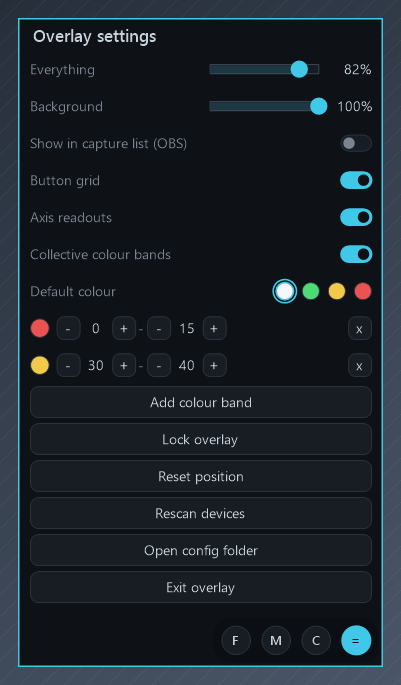
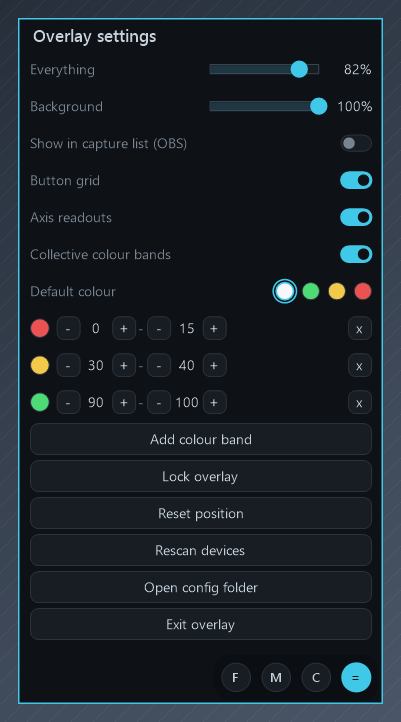
Added green to the default colours for better UX

diff --git a/src/JoystickInputOverlay/OverlayConfig.cs b/src/JoystickInputOverlay/OverlayConfig.cs
@@ -145,11 +145,17 @@ internal sealed class OverlayConfig
     public bool CollectiveBandsEnabled { get; set; }
 
     /// <summary>
-    /// Percentage ranges that override the colour, e.g. 0-15 Red. Inclusive at both ends;
-    /// the first band containing the value wins. Anything uncovered uses
-    /// <see cref="CollectiveText"/>.
+    /// Percentage ranges that override the colour. Inclusive at both ends; the first band
+    /// containing the value wins. Anything uncovered uses <see cref="CollectiveText"/>.
+    /// Ships with a low, a caution and a high band; they only take effect once
+    /// <see cref="CollectiveBandsEnabled"/> is on.
     /// </summary>
-    public List<ColourBand> CollectiveBands { get; set; } = new();
+    public List<ColourBand> CollectiveBands { get; set; } = new()
+    {
+        new ColourBand { Min = 0,  Max = 15,  Colour = "Red" },
+        new ColourBand { Min = 30, Max = 40,  Colour = "Yellow" },
+        new ColourBand { Min = 90, Max = 100, Colour = "Green" }
+    };
 
     /// <summary>
     /// The view, resolved from <see cref="Mode"/> and falling back to the legacy

diff --git a/README.md b/README.md
@@ -351,7 +351,7 @@ Work through the grip and base, note the numbers, then label them in the config 
 | `collectiveShowPercent` | `true` draws the % symbol, `false` leaves the bare number. The corner button toggles it. |
 | `collectiveText` | Colour when no band matches, and whenever banding is off. `White`, `Green`, `Yellow`, `Red`, or a hex value. |
 | `collectiveBandsEnabled` | Whether value-based colouring is applied at all. |
-| `collectiveBands` | The ranges, e.g. `[{ "min": 0, "max": 15, "colour": "Red" }]`. |
+| `collectiveBands` | The ranges, e.g. `[{ "min": 0, "max": 15, "colour": "Red" }]`. Defaults to Red 0-15, Yellow 30-40, Green 90-100. |
 | `collectiveWidth` / `collectiveHeight` | Collective view size once dragged. `0` derives it from the basis. |
 | `collectiveBackground` | Collective background colour. Defaults to `#101E3A`. |
 | `collectiveText` | Collective number colour. Defaults to `#FFFFFF`. |
